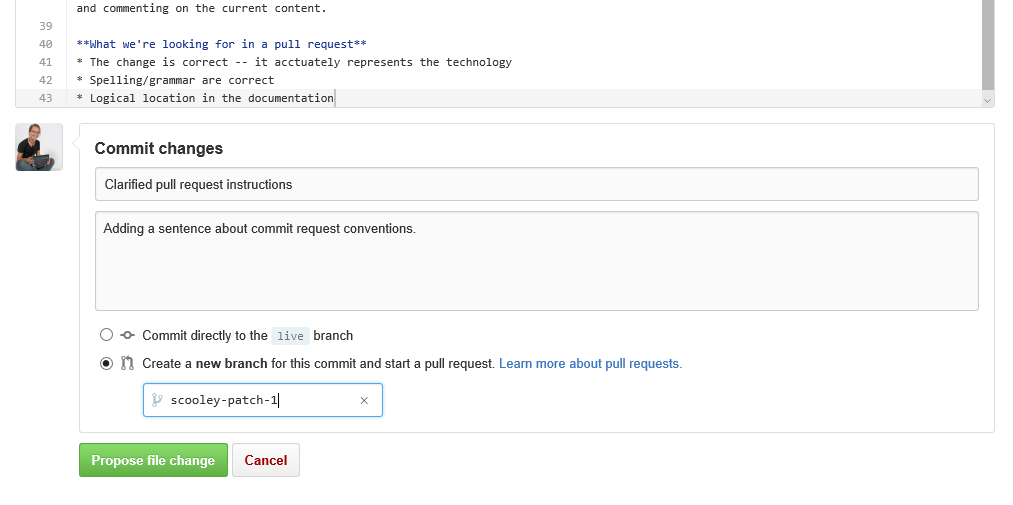
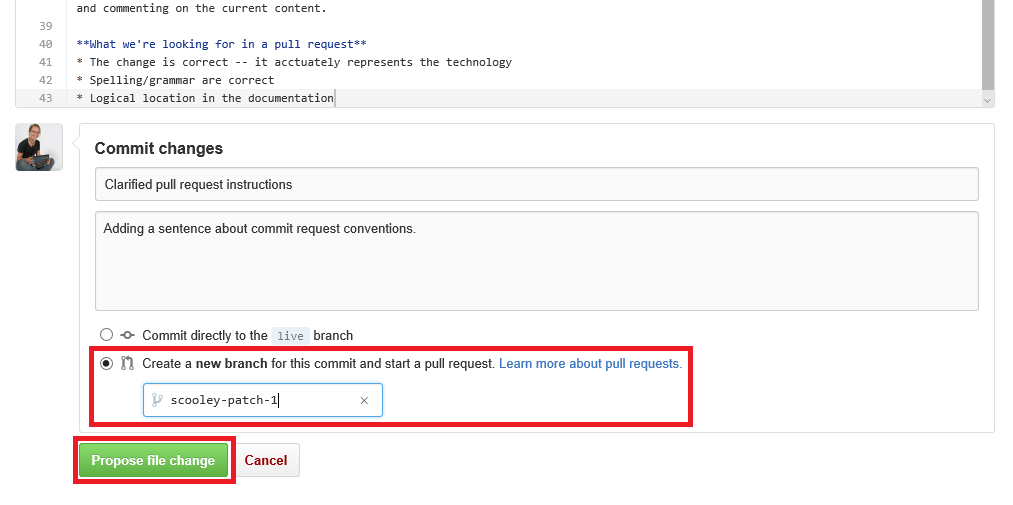
minor changes

Changed region(s): [[0.0612, 0.6832, 0.7038, 0.9802]]

diff --git a/virtualization/community/contribute_to_docs.md b/virtualization/community/contribute_to_docs.md
@@ -5,9 +5,10 @@
 ## Edit an existing doc
 
 1. Find the doc you'd like to edit.  
-  ![](media/editDoc.png)
 
 2. Select **Contribute to this topic**  
+  ![](media/editDoc.png)
+  
   This will automatically redirect you to the markdown file in GitHub associated with this file.
   
   Make sure you are signed into GitHub.  If not, either sign in or create a GitHub account.
@@ -27,12 +28,17 @@
   
   ![](media/GitHubEditor.png)
   
-5. Propose your changes
+5. Propose your changes as a pull request
   
   ![](media/GitHubProposeChange.png)
 
 6. Review your changes
   
+  **What we're looking for in a pull request**  
+  * The change is correct -- it acctuately represents the technology
+  * Spelling/grammar are correct
+  * Logical location in the documentation
+    
   ![](media/GitHubCreatePR.png)
 
 7. Create a [pull request](contribute_to_docs.md#pull-requests)  
@@ -41,7 +47,4 @@
 
 Most changes will be committed via pull request.  A pull request is a way of reviewing a change set with multiple reviewers, changing, and commenting on the current content.
 
-**What we're looking for in a pull request**  
-* The change is correct -- it acctuately represents the technology
-* Spelling/grammar are correct
-* Logical location in the documentation
+
